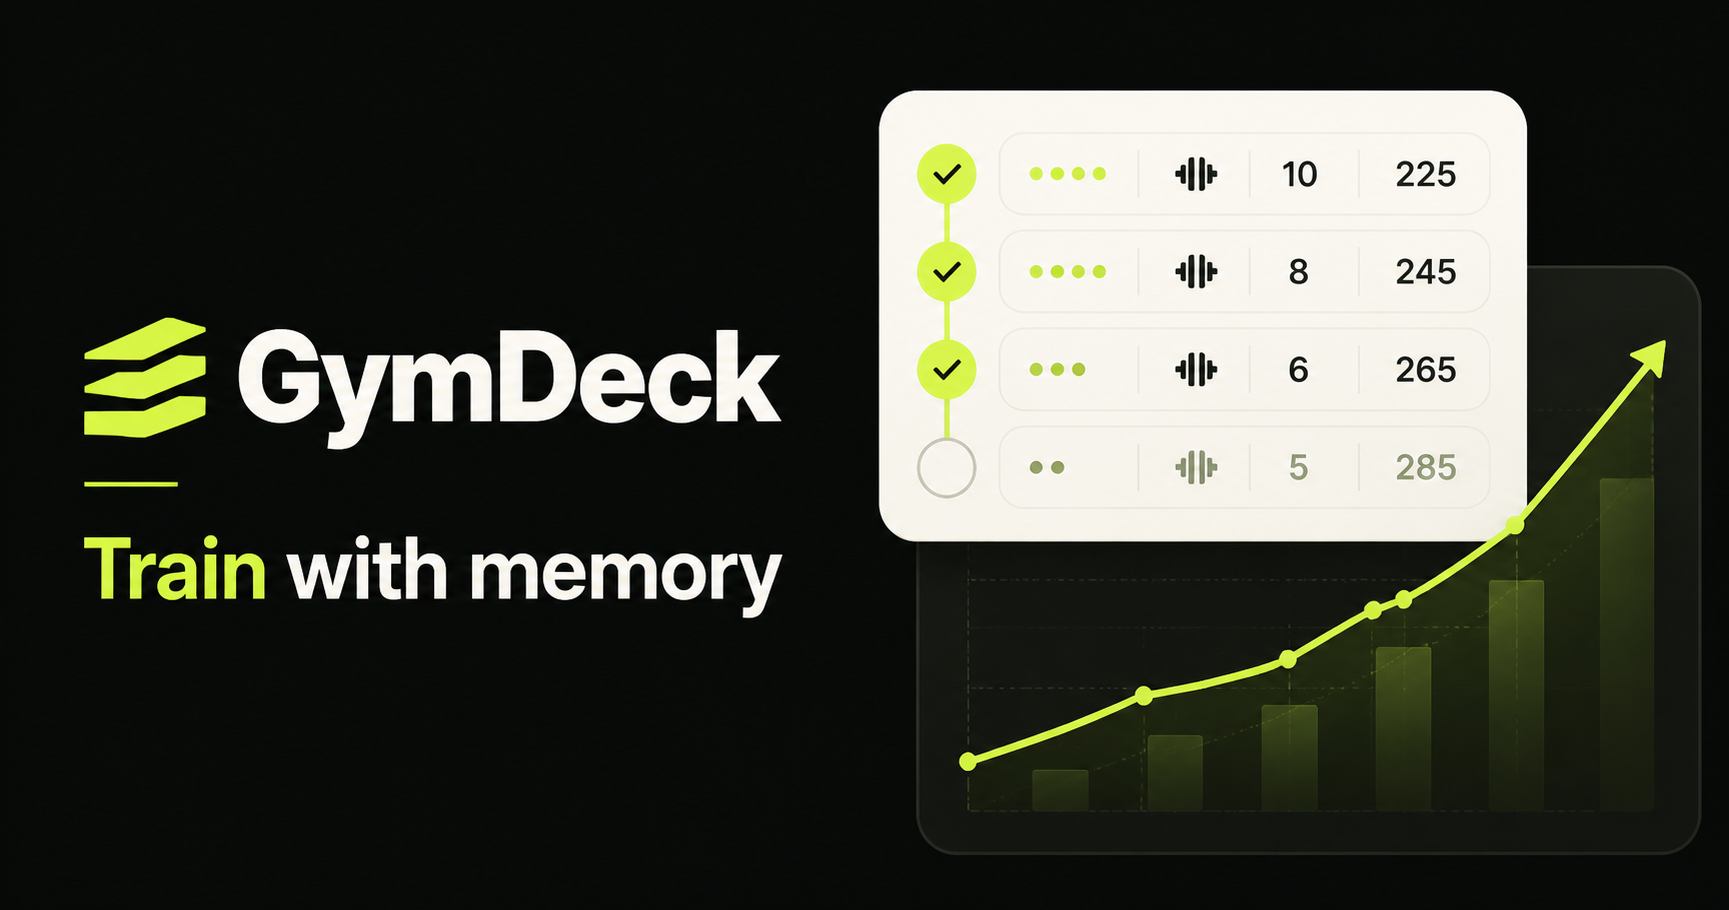
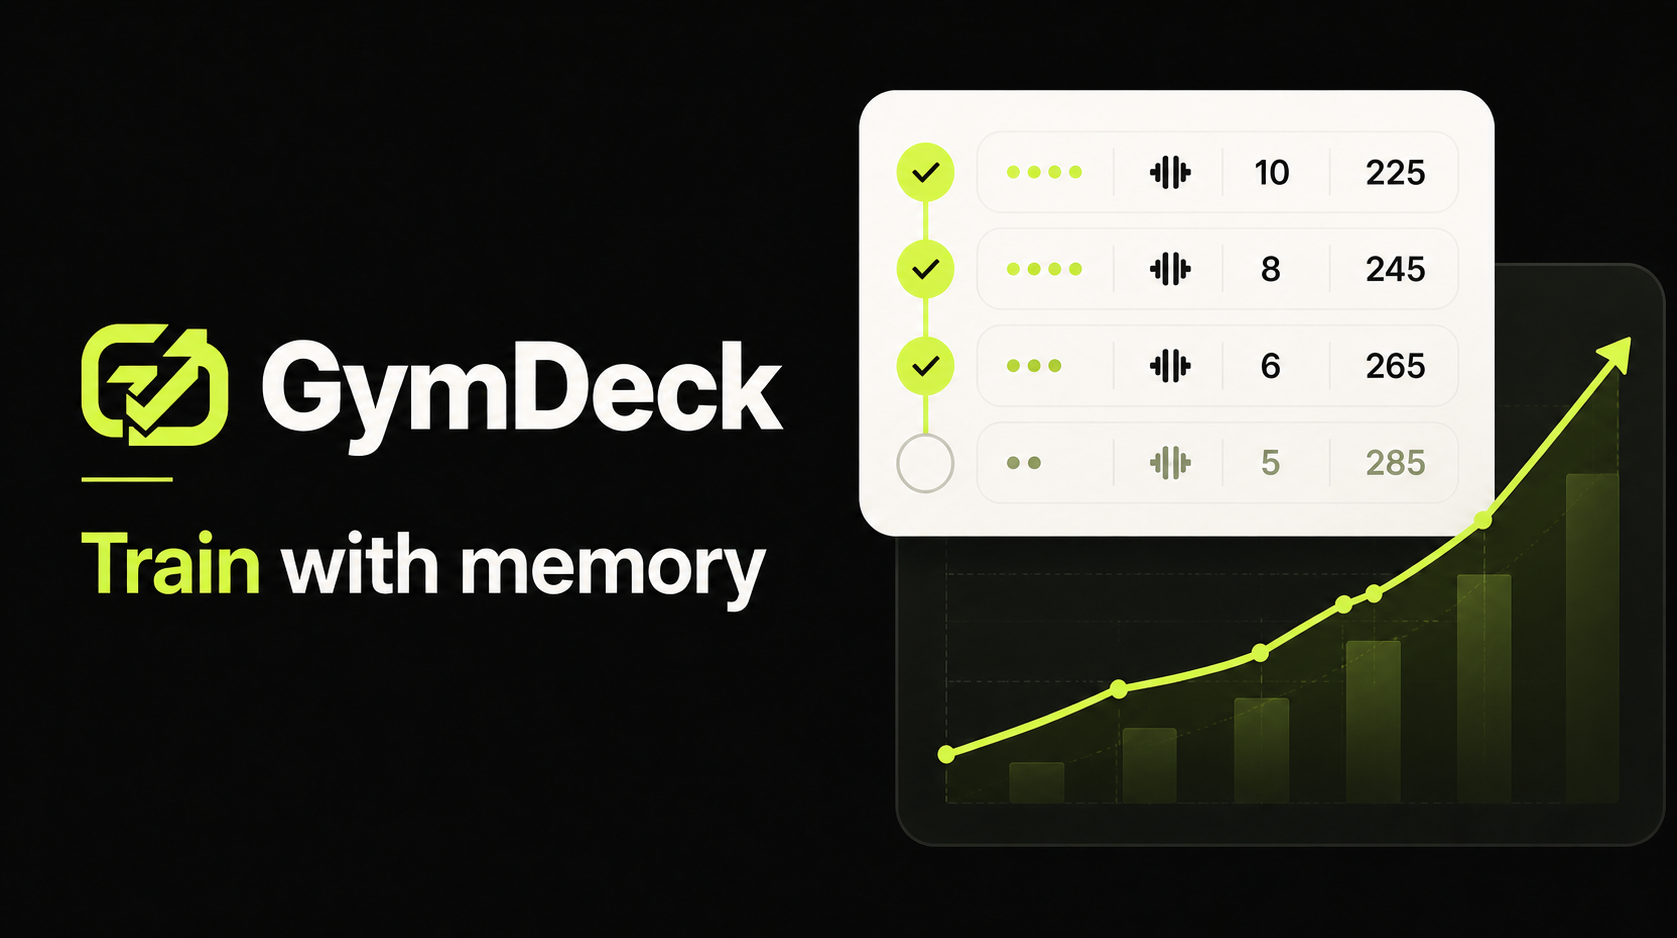
Add GymDeck brand mark

diff --git a/app/page.tsx b/app/page.tsx
@@ -766,12 +766,12 @@ export default function Home() {
   const resetDemo = () => { if (!window.confirm("Reset GymDeck and reload the demo athlete? Your current local data will be replaced.")) return; const demo = buildDemoState(); stateRef.current = demo; undoStack.current = []; setCanUndo(false); setState(demo); setProfileOpen(false); setView("today"); };
   const acceptRecommendation = (id: string) => { const recommendation = state.recommendations.find((item) => item.id === id); if (!recommendation) return; commit(`Accepted ${recommendation.suggestedWeight} ${state.athlete.unit} for ${recommendation.exerciseName} next session.`, "You", (draft) => { const target = draft.plan.days.flatMap((day) => day.exercises).find((item) => item.name === recommendation.exerciseName); if (target) target.weight = recommendation.suggestedWeight; const stored = draft.recommendations.find((item) => item.id === id); if (stored) stored.status = "accepted"; }); };
 
-  if (!hydrated) return <main className="loading-shell"><div className="loading-mark">GD</div><p>Loading your training workspace…</p></main>;
+  if (!hydrated) return <main className="loading-shell"><div className="loading-mark"><img src="/gymdeck-mark.png" alt="GymDeck" /></div><p>Loading your training workspace…</p></main>;
 
   return (
     <main className="app-shell">
       <aside className="sidebar">
-        <button className="brand" onClick={() => setView("today")} aria-label="GymDeck home"><span className="brand-mark">GD</span><span><strong>GymDeck</strong><small>Train with memory</small></span></button>
+        <button className="brand" onClick={() => setView("today")} aria-label="GymDeck home"><span className="brand-mark"><img src="/gymdeck-mark.png" alt="" /></span><span><strong>GymDeck</strong><small>Train with memory</small></span></button>
         <nav className="primary-nav" aria-label="Main navigation">
           <NavButton active={view === "today"} icon="⌁" label="Today" onClick={() => setView("today")} />
           <NavButton active={view === "plan"} icon="▤" label="My plan" onClick={() => setView("plan")} />
@@ -785,7 +785,7 @@ export default function Home() {
       </aside>
       <section className="workspace">
         <header className="topbar">
-          <div className="mobile-brand"><span className="brand-mark">GD</span><strong>GymDeck</strong></div>
+          <div className="mobile-brand"><span className="brand-mark"><img src="/gymdeck-mark.png" alt="" /></span><strong>GymDeck</strong></div>
           <div className="topbar-copy"><span className="eyebrow">{formatDate(isoDate())}</span><strong>{view === "today" ? "Today’s workout" : view === "plan" ? state.plan.name : view === "progress" ? "Your progress" : "Exercise library"}</strong></div>
           <div className="topbar-actions"><span className="local-pill"><span>●</span> Saved on device</span><button className="icon-button" onClick={() => setActivityOpen(true)} aria-label="Open activity history"><span className="activity-lines" aria-hidden="true" /><span className="notification-dot" /></button><button className="avatar-button" onClick={() => setProfileOpen(true)} aria-label="Open athlete profile">{state.athlete.name.slice(0, 1).toUpperCase()}</button></div>
         </header>

diff --git a/app/globals.css b/app/globals.css
@@ -30,7 +30,8 @@ button:focus-visible, input:focus-visible, select:focus-visible { outline: 3px s
 .sr-only { position: absolute; width: 1px; height: 1px; padding: 0; margin: -1px; overflow: hidden; clip: rect(0,0,0,0); white-space: nowrap; border: 0; }
 
 .loading-shell { min-height: 100vh; display: grid; place-content: center; justify-items: center; gap: 16px; background: var(--dark); color: white; }
-.loading-mark, .brand-mark { display: grid; place-items: center; width: 42px; height: 42px; border-radius: 11px 4px 11px 4px; background: var(--lime); color: var(--dark); font-weight: 900; font-size: 14px; letter-spacing: -0.04em; }
+.loading-mark, .brand-mark { display: grid; place-items: center; width: 42px; height: 42px; padding: 4px; overflow: hidden; border-radius: 11px 4px 11px 4px; background: #f5f5f0; color: var(--dark); font-weight: 900; font-size: 14px; letter-spacing: -0.04em; }
+.loading-mark img, .brand-mark img { display: block; width: 100%; height: 100%; object-fit: contain; }
 
 .app-shell { min-height: 100vh; display: flex; }
 .sidebar { position: fixed; inset: 0 auto 0 0; z-index: 20; width: 246px; padding: 24px 16px 16px; background: var(--dark); color: white; display: flex; flex-direction: column; }

diff --git a/app/layout.tsx b/app/layout.tsx
@@ -19,6 +19,7 @@ export async function generateMetadata(): Promise<Metadata> {
     metadataBase: new URL(origin),
     title,
     description,
+    icons: { icon: "/gymdeck-mark.png" },
     openGraph: { title, description, type: "website", images: [{ url: `${origin}/og.png`, width: 1536, height: 1024, alt: "GymDeck — Train with memory" }] },
     twitter: { card: "summary_large_image", title, description, images: [`${origin}/og.png`] },
   };
